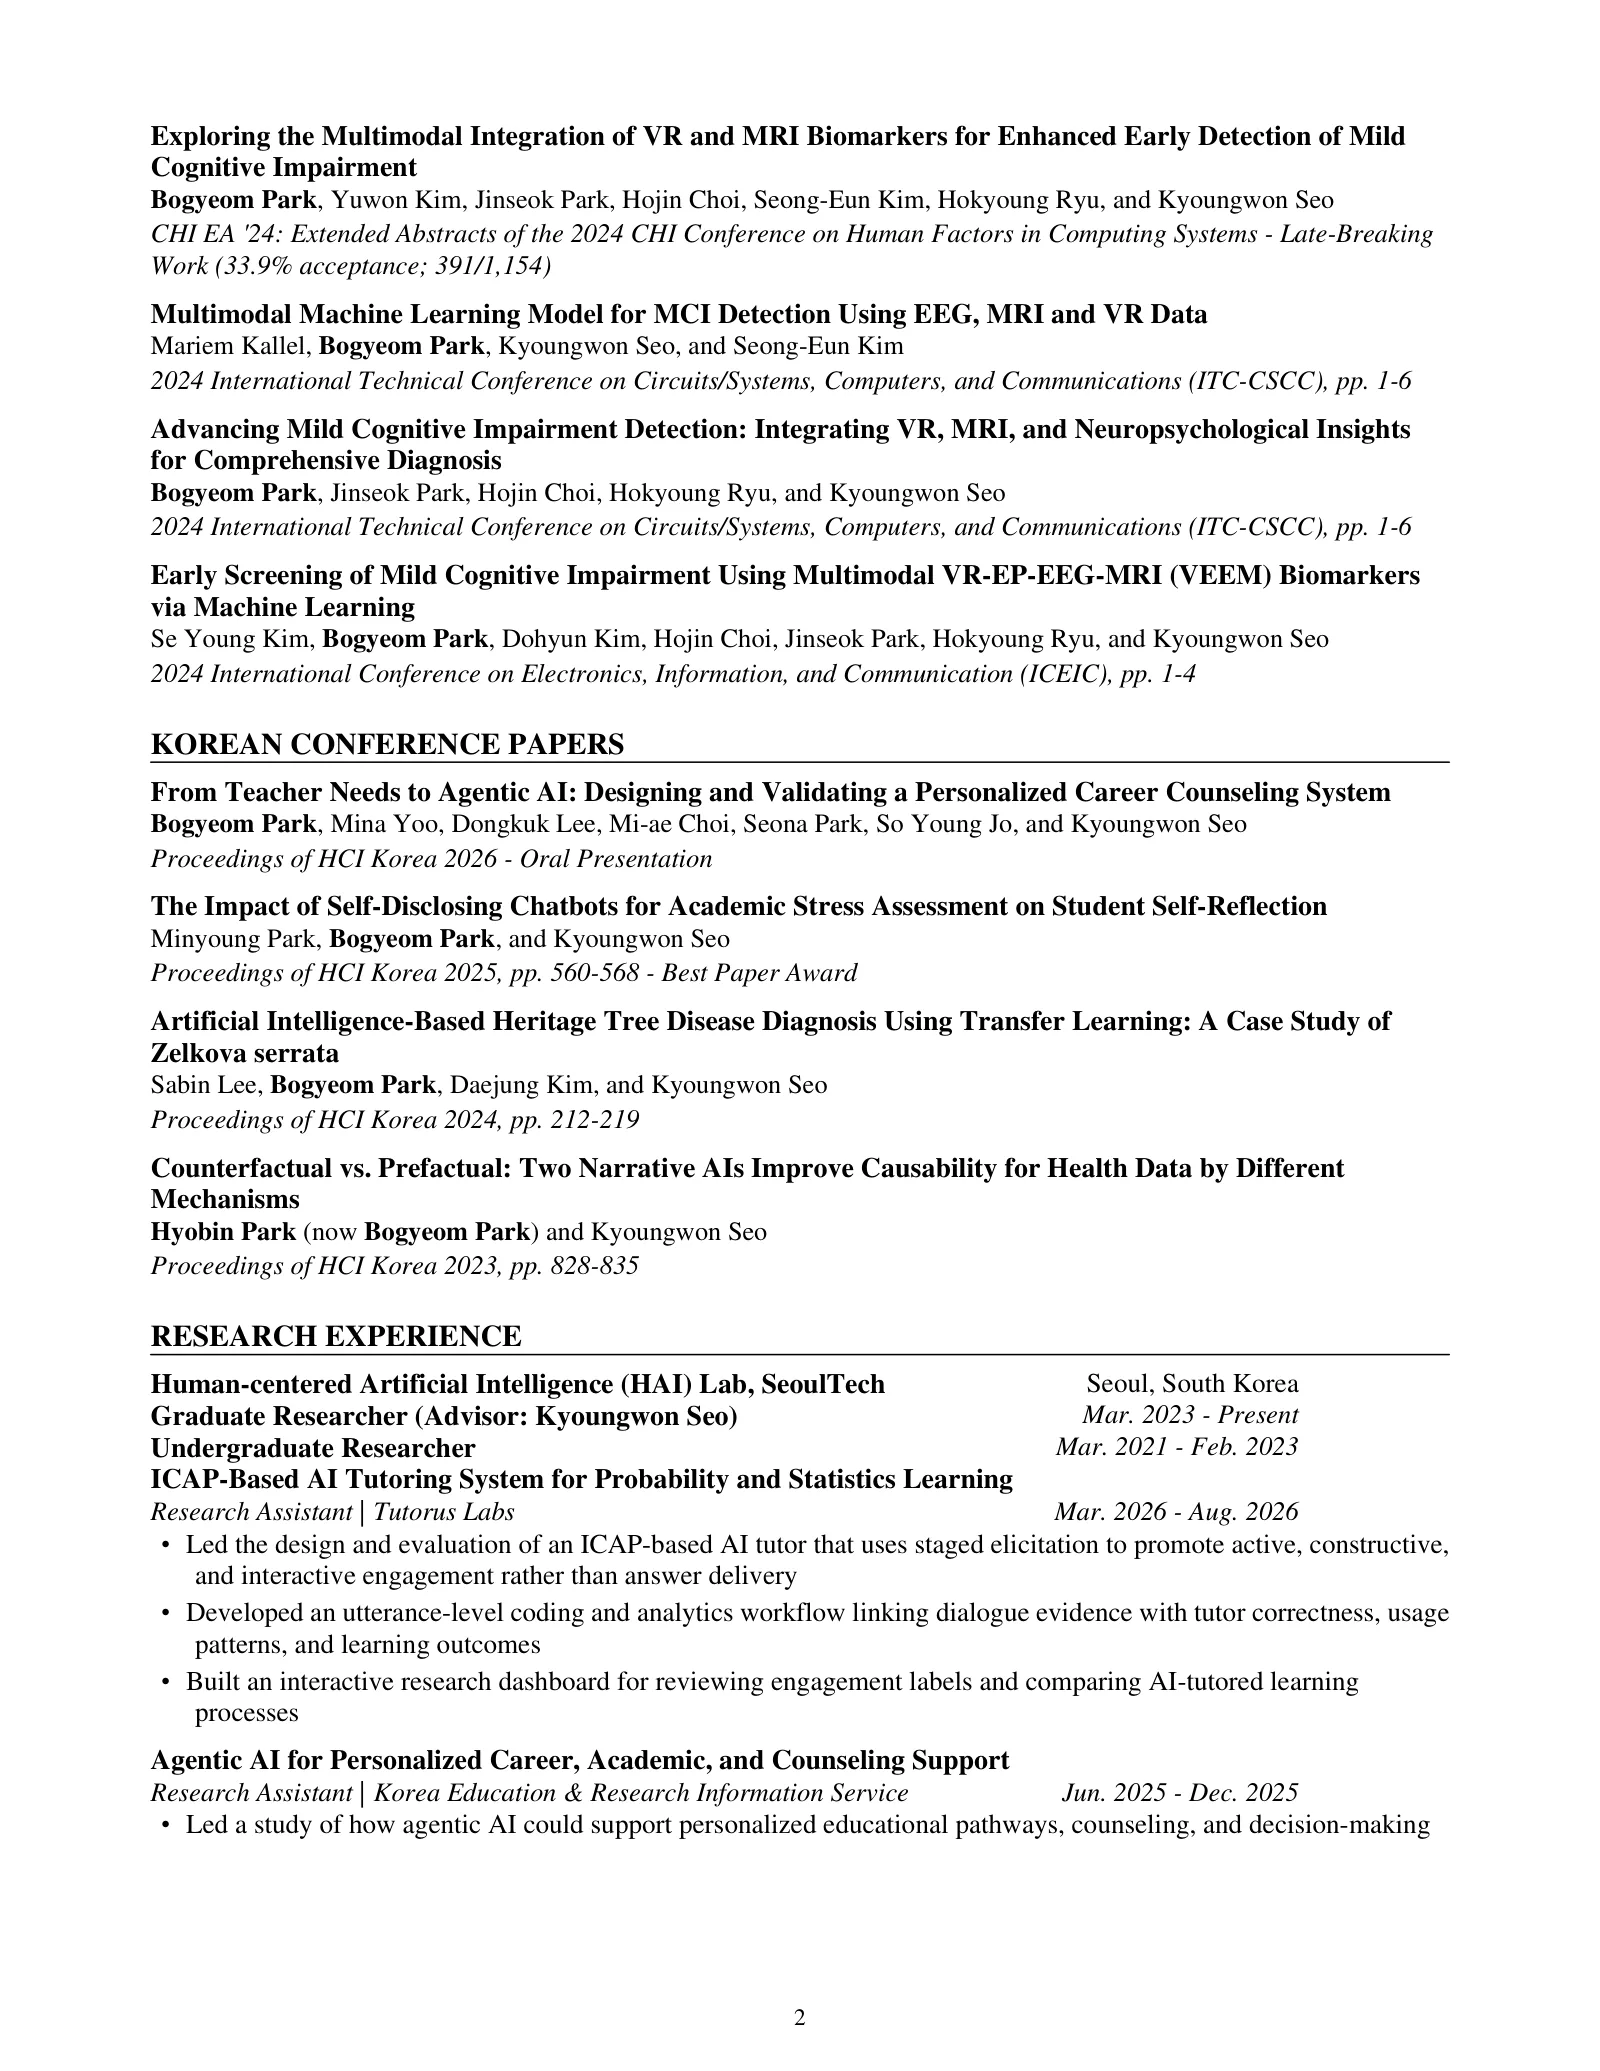
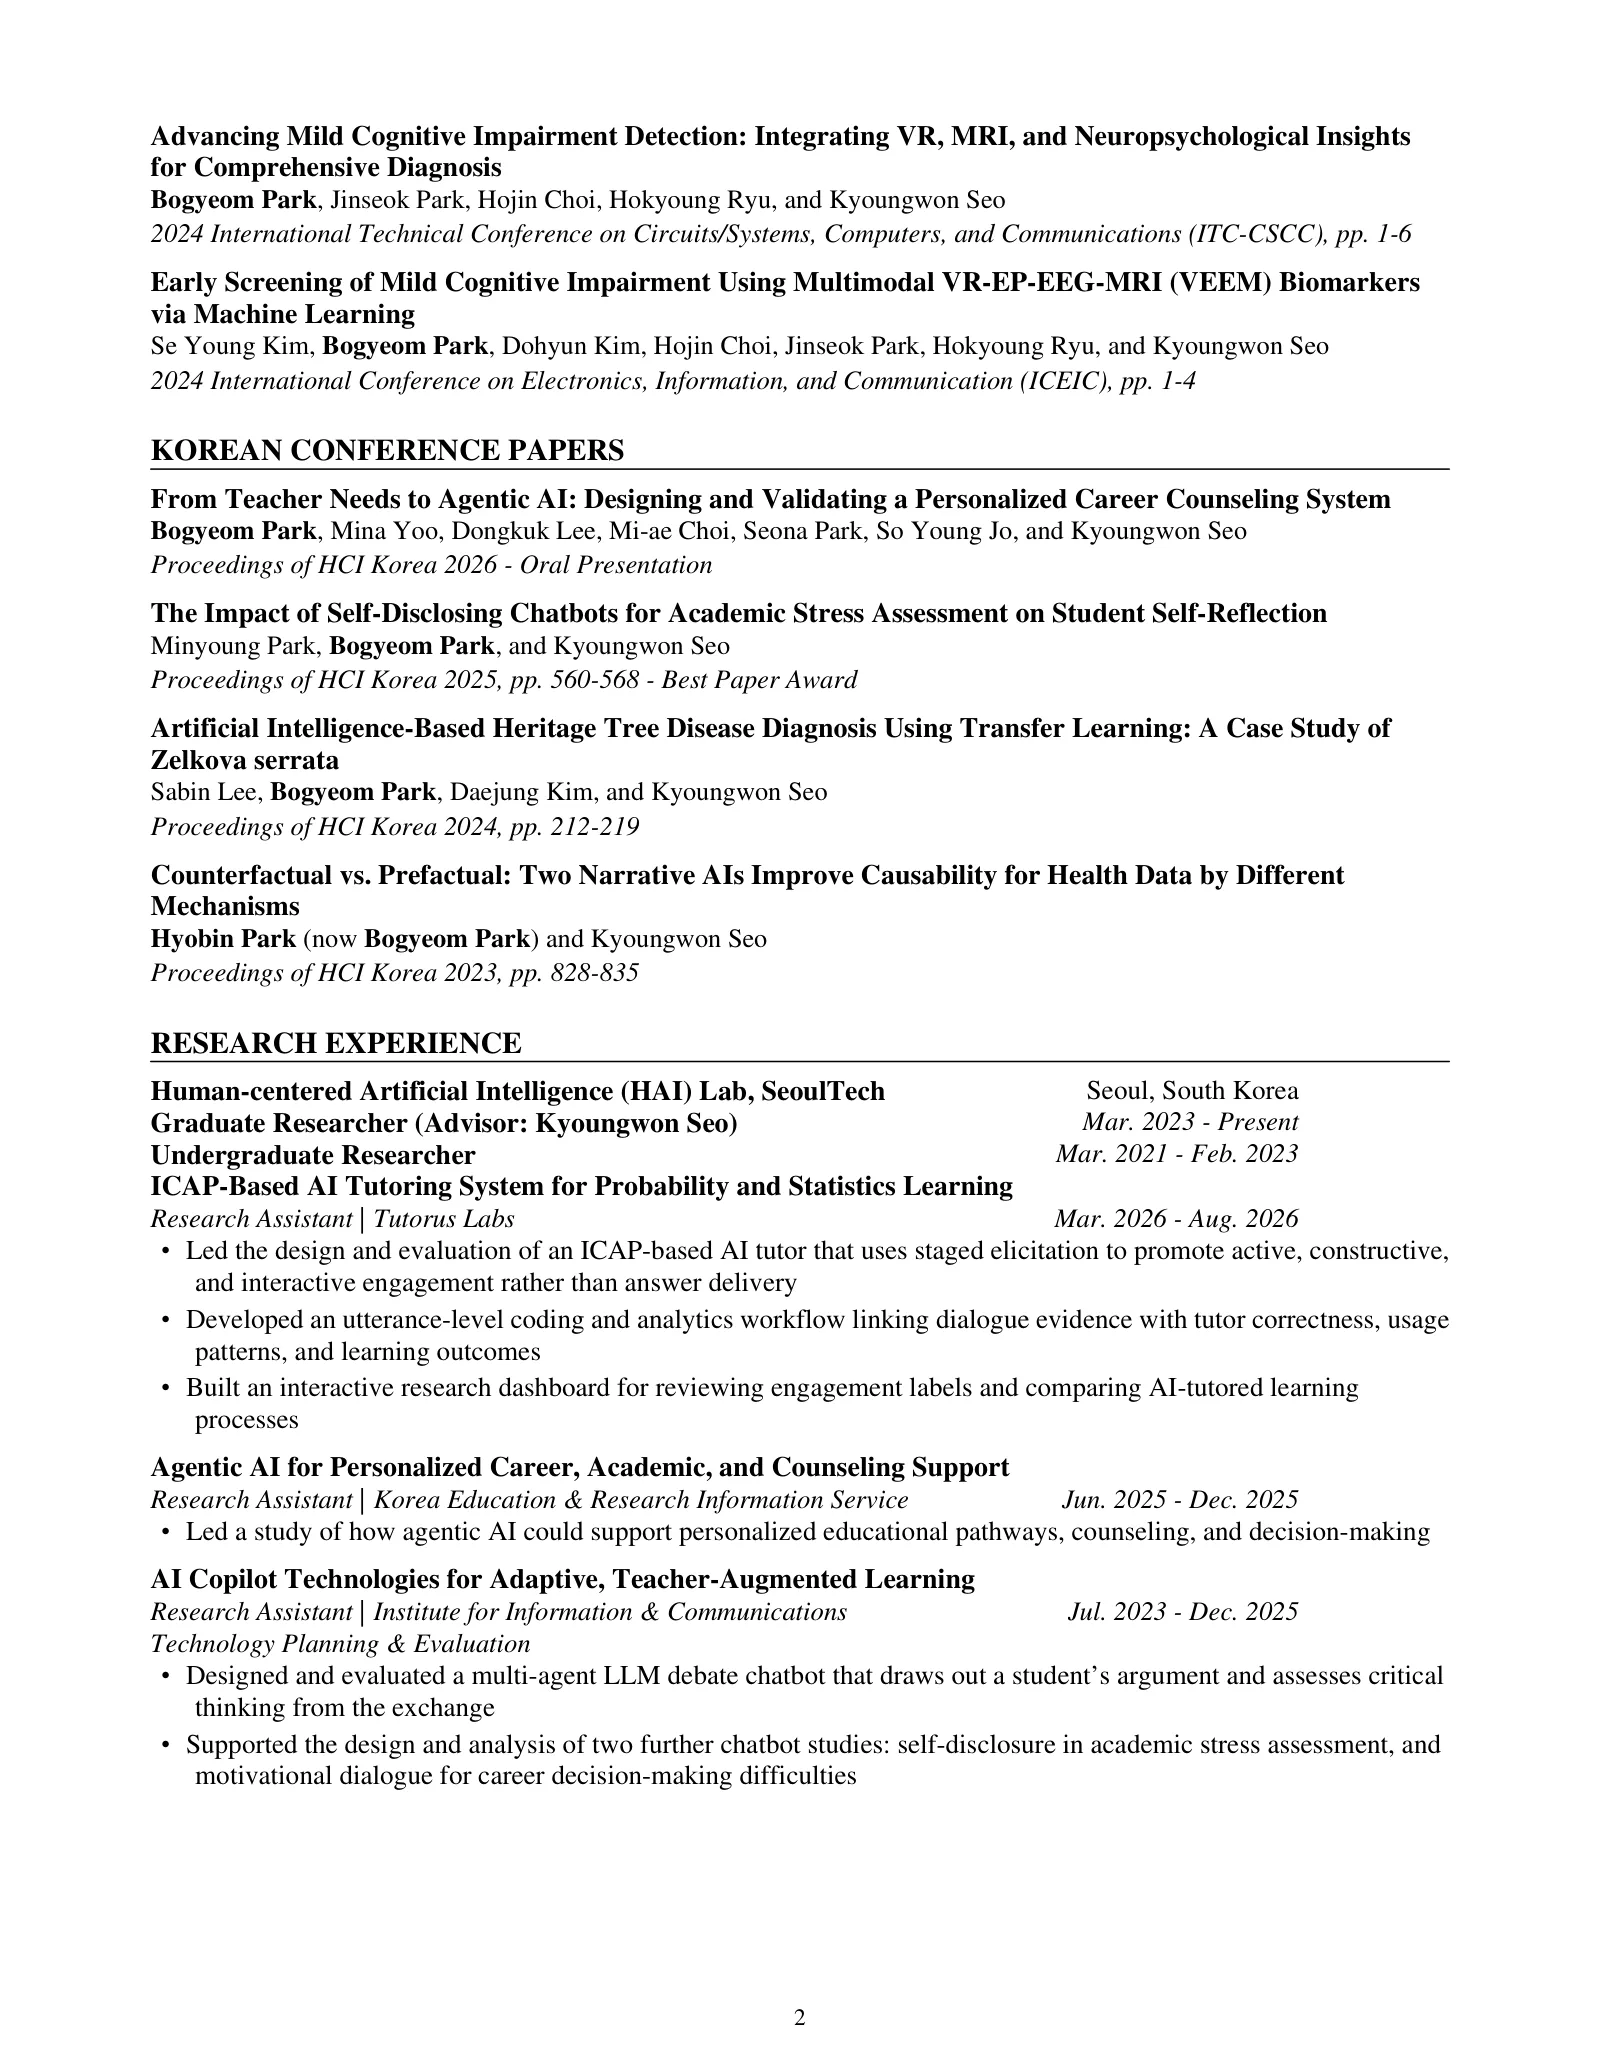
Drop Research Interests, and say what the papers say
The interests paragraph was the one section of the CV nobody could check. It also
listed accessibility, which left with the GUI agent project, and never reached the
dementia work at all — so the section that exists to make a spread-out record read
as one thing was failing at exactly that. The publication list and the project
bullets cover the same ground and can be verified.

Project bullets now follow the acknowledgments rather than the project proposal.
RS-2023-00262158 produced four CHI EA papers: first author on the multi-agent
debate chatbot, second on the self-disclosure and career counseling studies, so
the first is designed and evaluated and the others are supported the design and
analysis. The old bullets described deliverables the grant promised rather than
work that can be pointed at.

NRF-2021R1C1C1005688 produced the JMIR validation study, first-authored, so its
bullet leads with Led and adds the features the paper actually derives — hand
movement and gaze from the kiosk task, against MRI-derived measures.

NRF-2021R1A4A5033480 keeps the data-building bullet: it is the basic research
laboratory that assembled the VR, EEG and MRI data with Hanyang University Guri
Hospital, and that is the half of the JMIR study it paid for.

diff --git a/cv/index.html b/cv/index.html
@@ -44,7 +44,7 @@
       </header>
 <!-- cv:start -->
       <section class="cv-viewer" aria-label="Academic CV, 3 pages">
-        <img class="cv-page" src="/assets/cv/pages/page-1.webp" width="1600" height="2071" decoding="async" alt="Academic CV, page 1 of 3: Research Interest, Education, Honors &amp; Awards, Journal Articles, International Conference Papers">
+        <img class="cv-page" src="/assets/cv/pages/page-1.webp" width="1600" height="2071" decoding="async" alt="Academic CV, page 1 of 3: Education, Honors &amp; Awards, Journal Articles, International Conference Papers">
         <img class="cv-page" src="/assets/cv/pages/page-2.webp" width="1600" height="2071" decoding="async" loading="lazy" alt="Academic CV, page 2 of 3: Korean Conference Papers, Research Experience">
         <img class="cv-page" src="/assets/cv/pages/page-3.webp" width="1600" height="2071" decoding="async" loading="lazy" alt="Academic CV, page 3 of 3: Teaching &amp; Mentoring, Skills, Patent, Academic Service">
       </section>

diff --git a/scripts/cv_data.py b/scripts/cv_data.py
@@ -11,7 +11,6 @@ Emphasis inside strings uses <b>…</b>; both renderers understand that tag
 # Section headings, shared by both renderers so the PDF and the page cannot
 # disagree (they already had, once: "Extended Abstracts" vs the wider list).
 SECTION_TITLES = {
-    "interest": "Research Interest",
     "education": "Education",
     "awards": "Honors & Awards",
     "journal": "Journal Articles",
@@ -32,19 +31,9 @@ CONTACT = {
     "github": "https://github.com/BogyeomPark",
 }
 
-RESEARCH_INTEREST = {
-    "summary": (
-        "I design and study <b>human-centered agentic AI systems</b> that support learning, "
-        "decision-making, and accessibility, at the intersection of Human-AI Interaction, "
-        "AI in Education, and Learning Analytics."
-    ),
-    "bullets": [
-        "<b>Agentic AI for learning and decision support</b> - designing agents that reason with "
-        "people, use tools, and adapt support while preserving human goals and oversight",
-        "<b>Human-centered interaction and evaluation</b> - analyzing conversational and behavioral "
-        "traces to understand engagement, accessibility, and real-world outcomes",
-    ],
-}
+# Research Interests was dropped from the CV. The publication list and the project
+# bullets carry the same ground, and a standalone paragraph of interests is the one
+# part of a CV nobody can check.
 
 EDUCATION = [
     {
@@ -242,9 +231,14 @@ RESEARCH_EXPERIENCE = [
                     "Planning & Evaluation"
                 ),
                 "dates": "Jul. 2023 - Dec. 2025",
+                # Four CHI EA papers came out of this grant. First author on the debate
+                # chatbot, second on the other two, so the verbs differ.
                 "bullets": [
-                    "Built counseling chatbot and analysis models supporting AI-driven student coaching",
-                    "Co-developed an integrated platform enabling personalized teacher-augmented learning",
+                    "Designed and evaluated a multi-agent LLM debate chatbot that draws out a "
+                    "student’s argument and assesses critical thinking from the exchange",
+                    "Supported the design and analysis of two further chatbot studies: self-disclosure "
+                    "in academic stress assessment, and motivational dialogue for career "
+                    "decision-making difficulties",
                 ],
             },
             {
@@ -276,9 +270,12 @@ RESEARCH_EXPERIENCE = [
                 ),
                 "role": "Research Assistant | National Research Foundation of Korea",
                 "dates": "Mar. 2021 - Feb. 2024",
+                # First-authored the JMIR validation study this grant produced.
                 "bullets": [
-                    "Developed multimodal predictive models integrating VR behavioral and MRI biomarkers "
-                    "for early detection of mild cognitive impairment",
+                    "Led the development and validation of a multimodal model combining VR behavioral "
+                    "biomarkers with MRI for early detection of mild cognitive impairment",
+                    "Derived hand-movement and gaze features from a virtual kiosk task and tested them "
+                    "against MRI-derived measures in a clinical sample",
                 ],
             },
         ],

diff --git a/scripts/build_cv.py b/scripts/build_cv.py
@@ -256,10 +256,6 @@ def build():
     )
     story = [header, Spacer(1, 5)]
 
-    story += section(cv_data.SECTION_TITLES["interest"])
-    story.append(Paragraph(cv_data.RESEARCH_INTEREST["summary"], styles["Body"]))
-    story += [bullet(text) for text in cv_data.RESEARCH_INTEREST["bullets"]]
-
     story += section(cv_data.SECTION_TITLES["education"])
     for index, school in enumerate(cv_data.EDUCATION):
         if index:
